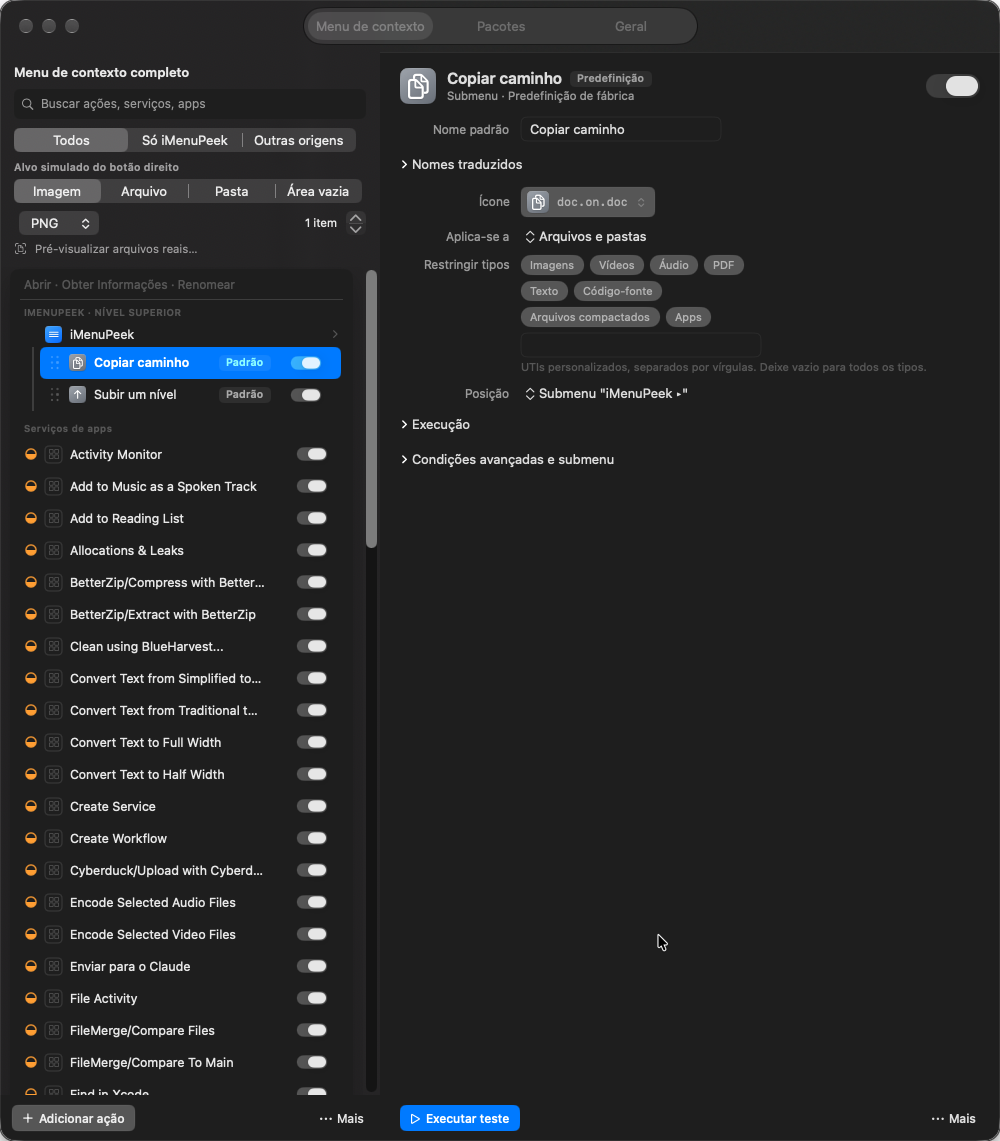
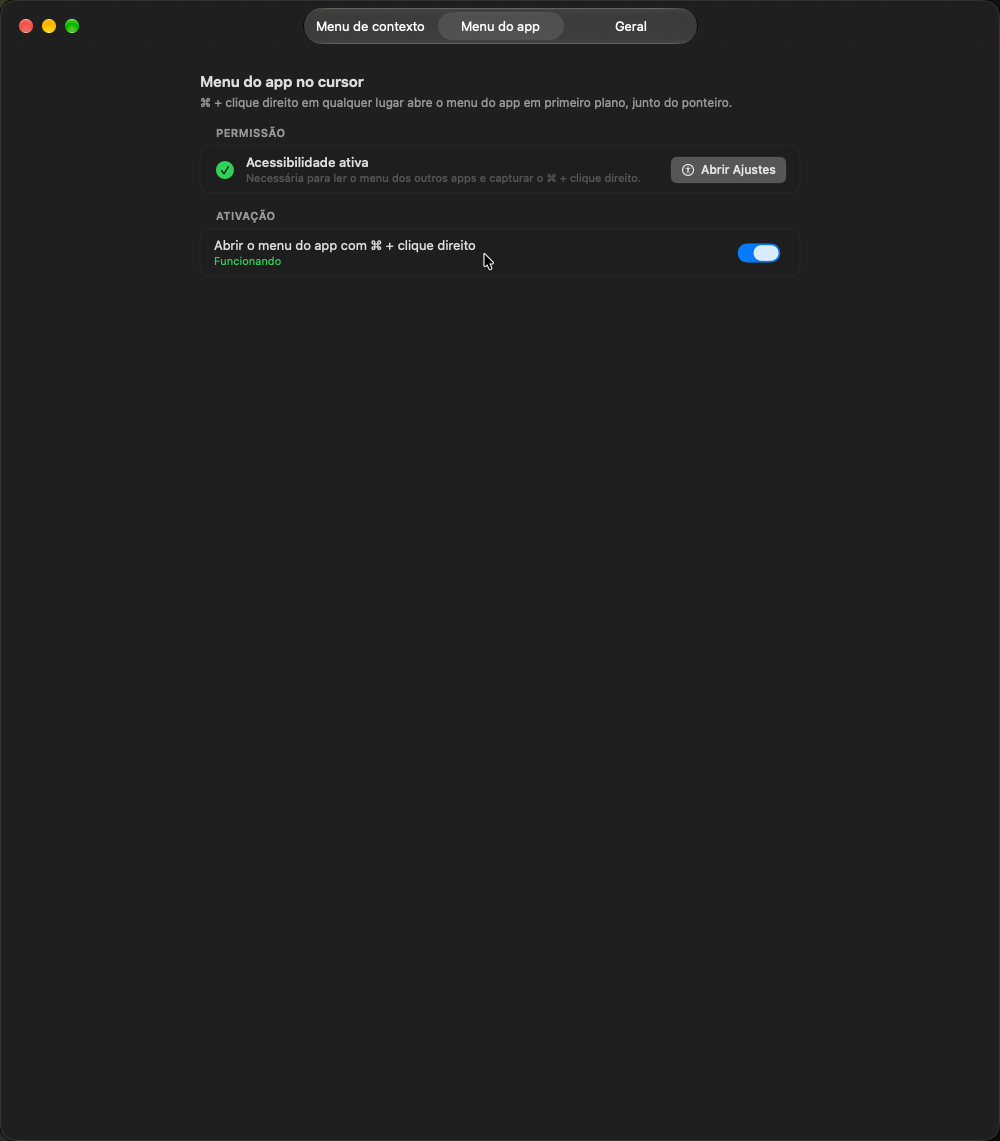
docs: README da 0.2.0 — aba Menu do app, apps Java e print atual

diff --git a/README.md b/README.md
@@ -17,7 +17,7 @@
 ---
 
 <p align="center">
-  <img src="docs/print.png" width="560" alt="iMenuPeek — ajustes do menu de contexto com Copiar caminho e Subir um nível no submenu iMenuPeek">
+  <img src="docs/print.png" width="560" alt="iMenuPeek — aba Menu do app com a Acessibilidade ativa e o ⌘ + clique direito funcionando">
 </p>
 
 ---
@@ -39,7 +39,7 @@ O iMenuPeek é um app de barra de menus com uma extensão do Finder. Você cria 
   - **Novo arquivo** — no espaço vazio da janela, a partir de modelos
 - **Ações suas** — script zsh inline ou em arquivo, ou "abrir com app"; recebe os itens em `$1…$n` e `MENUMATE_PATHS`
 - **Regras** — arquivos, pastas, espaço vazio, tipo de arquivo, mínimo/máximo de itens
-- **Menu do app no cursor** — **⌘ + clique direito** em qualquer lugar abre o menu do app em primeiro plano junto do ponteiro (estilo Menuwhere); liga/desliga em Ajustes › Geral
+- **Menu do app no cursor** — **⌘ + clique direito** em qualquer lugar abre o menu do app em primeiro plano junto do ponteiro (estilo Menuwhere). Funciona também em apps Java como **IntelliJ, Android Studio e NetBeans**, onde nem o Menuwhere funciona: o iMenuPeek abre o menu real e aciona o item. Configuração na aba **Menu do app** (estado da Acessibilidade, botão de permissão e liga/desliga)
 - **Teste com amostras** e **histórico de execuções** com saída e erro; aviso quando um script falha
 - **Menu de contexto completo** — vê e desliga Serviços e extensões de outros apps que poluem o botão direito
 - **Ícones acompanham o tema** claro/escuro; interface em **português**, inglês e chinês
@@ -60,7 +60,7 @@ xattr -dr com.apple.quarantine /Applications/iMenuPeek.app
 
 - Clique com o botão direito num arquivo, pasta ou espaço vazio → **iMenuPeek ▸**
 - **⌘ + clique direito** em qualquer lugar → menu do app em primeiro plano no cursor
-- Ícone na barra de menus → **Ajustes** para criar e editar ações e ver o menu completo
+- Ícone na barra de menus → **Ajustes**: aba **Menu de contexto** para criar e editar ações e ver o menu completo; aba **Menu do app** para o ⌘ + clique direito
 - **Execuções recentes** mostra o resultado de cada ação
 
 O menu não aparece em `/Applications`, no iCloud Drive nem em pastas gerenciadas por provedores de arquivo (limitação do Finder para extensões).
